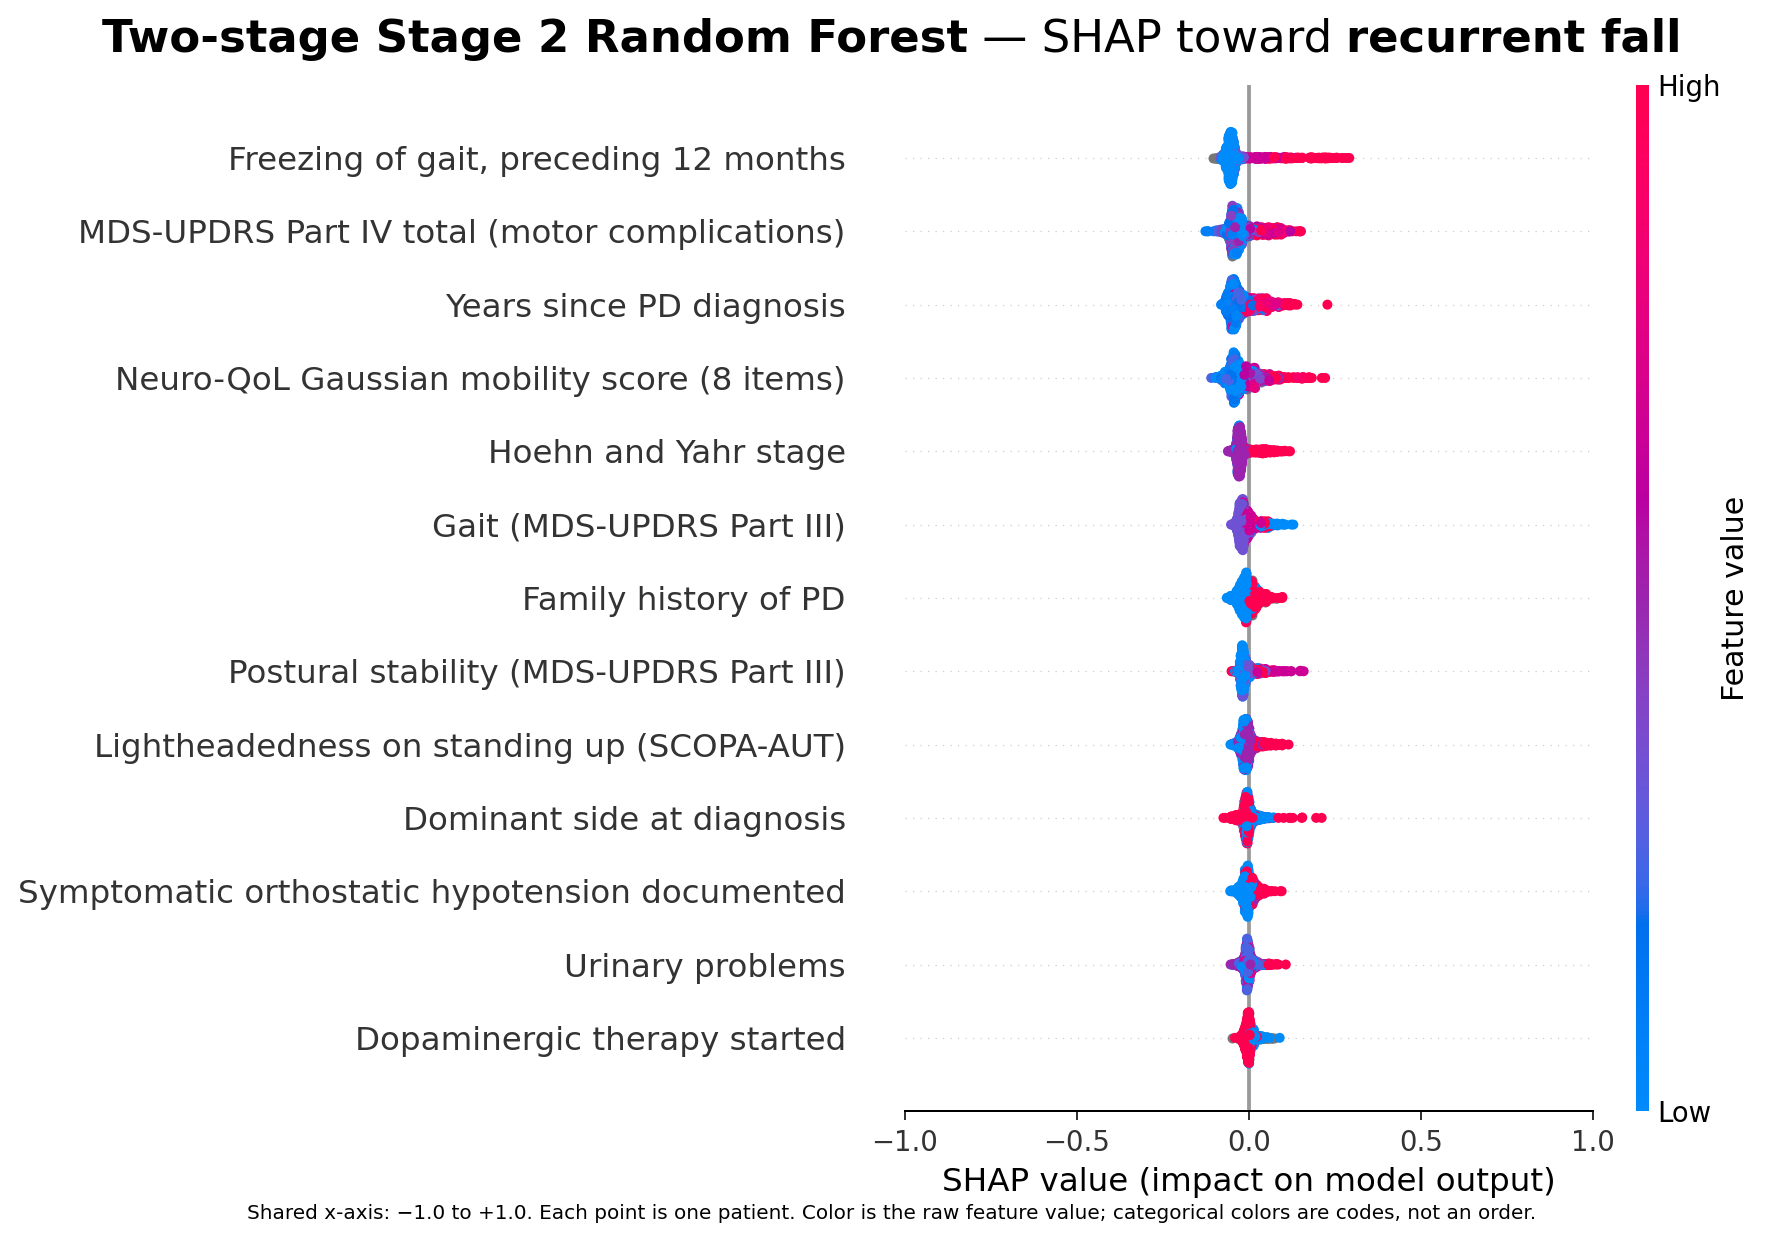
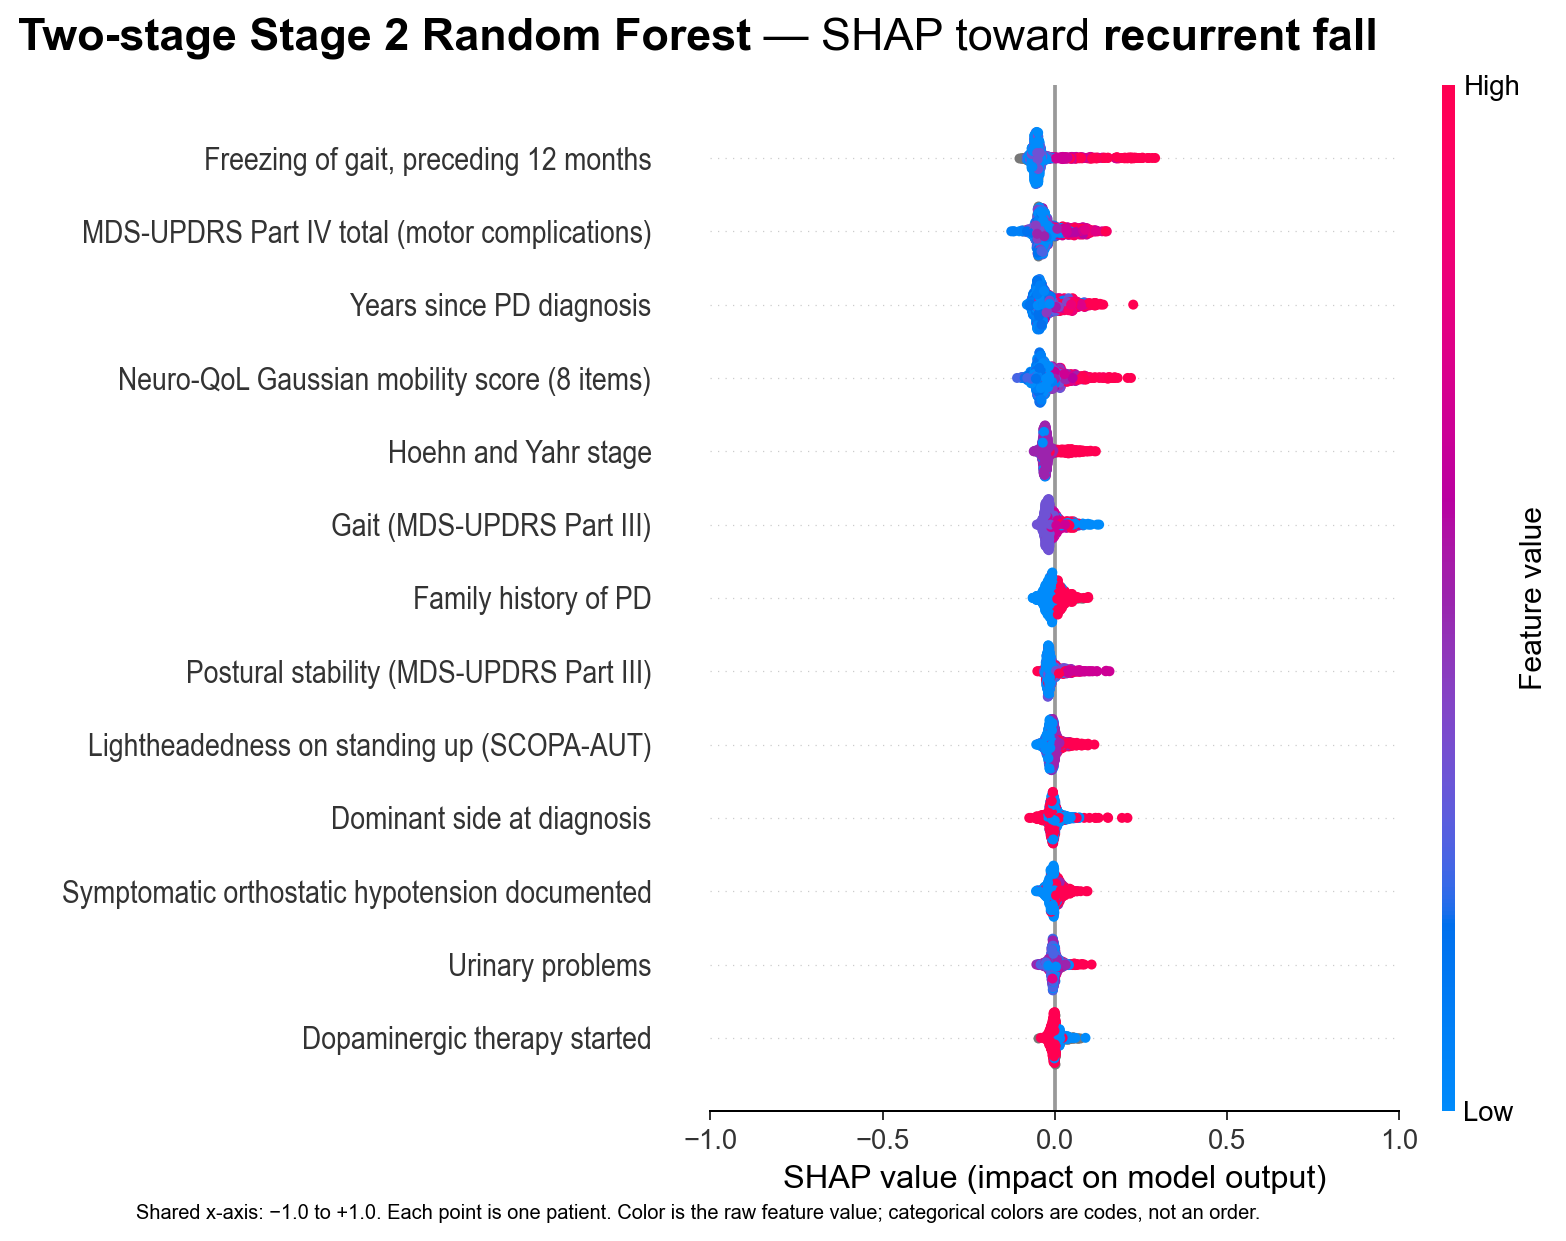
Apply Arial typography to SHAP figures

diff --git a/docs/decision_register.md b/docs/decision_register.md
@@ -55,7 +55,7 @@ workflow in `notebooks/04_final_pipeline/06_final_run/`.
 | D26 | Final Notebook 09 reruns the unchanged Notebook 05–07 procedure once on all 1,040 patients. It uses Notebook 03's fold rule (numeric patient order, five stratified folds) with seed 42 and the same stage seed formulas, then refits the direct, Stage 1, and Stage 2 winners with seed 500042. A gate first reruns seed 0's saved outer-training partition and must reproduce the saved Notebook 05, 06, and 07 decisions exactly. Models are saved with `cloudpickle` so they reload without notebook definitions, and a fresh-process reload must reproduce their predictions. Full-cohort selection scores and training-set predictions are not performance estimates. Model files may contain derived patient-level values (for example, SVC support vectors) and remain under PPMI data-use terms. | Final full-cohort artifacts | The 26-feature rerun passed 13/13 checks. The direct artifact is balanced CatBoost with corrected-FDR selection; Stage 1 is balanced Extra Trees with corrected-FDR selection; Stage 2 is unweighted random forest with median-threshold Extra-Trees selection. The three files and verified hashes are recorded in `results/final_pipeline/06_final_fit_and_performance_summary/09_full_cohort_fit/models/model_manifest.json`. |
 | D27 | Final Notebook 10 explains the Notebook 09 models without changing them. Importance is grouped out-of-fold permutation importance: clones of the saved pipelines are refitted on four of the five seed-42 folds, and each source variable (the Neuro-QoL Gaussian score alone, after D28) is shuffled 10 times in the held-out fold. It reports the drop in macro F1 and rare-fall recall for the direct and two-stage systems and each stage. Held-out scoring avoids in-sample inflation from the unlimited-depth Stage 2 forest. It also reports final retention and selection frequency across the 20 Notebook 07 refits. SHAP was not used because `shap` is not installed. Importance is descriptive and non-causal. | Final model interpretation | Completed on the 26-feature run on 25 September 2026; 6/6 checks passed. Direct macro-F1 importance was highest for constipation, freezing, the Neuro-QoL composite, age, and Part III motor total. Two-stage importance was highest for freezing, Part IV complications, and the Neuro-QoL composite. These findings cannot redefine the frozen model. |
 | D28 | **Candidate-set amendment before the final rerun.** The 33-feature universe contained the revision's 8-item Neuro-QoL Gaussian mobility score (`NQ_GAUSSIAN_REVISION`: Gaussian weights centred at 2.5, width 1.2, averaged over the 8 items and multiplied by 8) *and* seven of its own items (`NQMOB37, 30, 26, 32, 33, 31, 28`) as separate candidates. The raw items entered only because the paper-aligned union also included every variable the legacy work screened. The published and revision models used the composite alone. Remove the seven raw items: the primary universe becomes **26 features** (25 paper-aligned variables plus maximum eligible `NP1CNST`). The three Neuro-QoL PCA engineering branches are removed because they compressed those items. The reason is construct redundancy and fidelity to the published representation, not performance. The amended run becomes the primary analysis **regardless of whether its results are better or worse** than the superseded 33-feature run. The Part III total, gait, and postural stability are all kept because the published model used all three; their overlap is documented. Splits, seeds, frozen grids, selection rules, and the five sensitivity definitions are unchanged. The 33-feature results are archived as superseded and disclosed in the final report. | Final candidate universe | Approved 25 September 2026. Notebooks 01–11 are complete on the 26-feature design and passed their saved validation checks. The 33-feature outputs are archived under `results/final_pipeline/superseded_33_feature_run_2026-09-25/`, and the current final report uses only the 26-feature artifacts.  |
-| D29 | Explain the frozen full-cohort direct, Stage 1, and Stage 2 tree models separately with SHAP. Sum encoded-column contributions back to their clinical source groups and verify exact additivity. Do not combine Stage 1 and Stage 2 SHAP values because hard routing is not additive. These explanations cannot select models or estimate performance. Patient-level SHAP arrays and identifiers remain governed PPMI-derived data. Class-specific figures use beeswarms containing every retained clinical group, share the `-1.0` to `+1.0` x-axis derived from the largest plotted absolute SHAP value, and use centered 18-point titles with bold model-family and output-class names. Weighting labels remain in the configuration documentation instead of the titles; the direct all-class figure remains a complete magnitude overview. | Final SHAP and LLM handoff | Notebook 12 v5 completed on 29 September 2026; 9/9 checks passed. |
+| D29 | Explain the frozen full-cohort direct, Stage 1, and Stage 2 tree models separately with SHAP. Sum encoded-column contributions back to their clinical source groups and verify exact additivity. Do not combine Stage 1 and Stage 2 SHAP values because hard routing is not additive. These explanations cannot select models or estimate performance. Patient-level SHAP arrays and identifiers remain governed PPMI-derived data. Class-specific figures use beeswarms containing every retained clinical group, share the `-1.0` to `+1.0` x-axis derived from the largest plotted absolute SHAP value, and use centered 18-point titles with bold model-family and output-class names. Weighting labels remain in the configuration documentation instead of the titles. General plot text uses Arial Regular and clinical feature labels use Arial Narrow Regular, the thinnest installed faces in those families; the direct all-class figure remains a complete magnitude overview. | Final SHAP and LLM handoff | Notebook 12 v6 completed on 29 September 2026; 9/9 checks passed. |
 | D30 | Replace the revision-era GitHub export with the final 26-feature workflow. Include Notebooks 01–12, the raw inputs required to reproduce them, validated saved state, final models, synchronized documentation, and the updated LLM handoff. The user confirmed that public sharing of the patient-level handoff artifacts is permitted. Exclude the obsolete ablation report, delta workflow, revision notebooks, and superseded outputs. | Final repository export | Committed and pushed to `main` on 25 September 2026; the replacement commit is `b4e43ac`. |
 
 

diff --git a/docs/current_state.md b/docs/current_state.md
@@ -44,14 +44,15 @@ or selecting models. Its results agree with the current final report.
 Notebook 12 explains the frozen direct, Stage 1, and Stage 2 models
 separately, verifies SHAP additivity, and packages grouped clinical
 contributions plus restricted patient-level handoff artifacts. All 9 saved
-checks passed. Its v5 figures retain one all-class direct overview and use
+checks passed. Its v6 figures retain one all-class direct overview and use
 full beeswarms for all three direct classes, Stage 1 any-fall, and Stage 2
 recurrent-fall outputs. All five beeswarms use a shared `-1.0` to `+1.0`
 x-axis range. Titles are centered across the complete figure at 18 points,
 with the model family and output class in bold. Weighting labels are kept in
-the model-configuration documentation rather than the figure titles. Every
-figure includes all clinical groups retained by that model. The methodological
-limitations are maintained separately in
+the model-configuration documentation rather than the figure titles. General
+text uses Arial Regular and feature labels use Arial Narrow Regular, the
+thinnest installed faces in those families. Every figure includes all clinical
+groups retained by that model. The methodological limitations are maintained separately in
 `docs/final_run/methodological_limitations.md`.
 
 ## Current evidence

diff --git a/docs/final_run/final_run_plan.md b/docs/final_run/final_run_plan.md
@@ -143,7 +143,7 @@ trail; the final export uses the following clean execution order:
 | 09 | `09_full_cohort_fit.ipynb` | Final-run full-cohort fit | Rerun internal selection on all 1,040 patients and fit the seed-42 direct and two-stage artifacts |
 | 10 | `10_model_interpretation.ipynb` | Final-run interpretation | Produce final model explanations and feature summaries without redefining the model |
 | 11 | `11_final_performance_summary.ipynb` | Complete; 7/7 checks passed | Summarize performance, sensitivities, statistical analysis, selected features, and model frequencies |
-| 12 | `12_shap_and_llm_handoff.ipynb` | Complete; 9/9 checks passed | Explain the frozen direct and two-stage components with SHAP on a shared beeswarm x-axis, use centered emphasized titles, and package the governed LLM handoff artifacts |
+| 12 | `12_shap_and_llm_handoff.ipynb` | Complete; 9/9 checks passed | Explain the frozen direct and two-stage components with SHAP on a shared beeswarm x-axis, centered emphasized titles, and Arial/Arial Narrow typography, then package the governed LLM handoff artifacts |
 
 All final publication notebooks live together in
 `notebooks/04_final_pipeline/06_final_run/`. Their filenames match the final

diff --git a/docs/final_run/final_results_report.md b/docs/final_run/final_results_report.md
@@ -465,6 +465,9 @@ chosen from the largest observed absolute plotted SHAP value (0.895) with
 rounded outward padding. The common range makes spread visually consistent;
 the direct multiclass and two-stage component values still use their own model
 output scales and should not be interpreted as exactly interchangeable units.
+General figure text uses Arial Regular and clinical feature labels use Arial
+Narrow Regular, the thinnest installed faces in those families. Model-family
+and output-class title segments use Arial Bold.
 
 **Direct CatBoost: all retained features across all classes**
 
